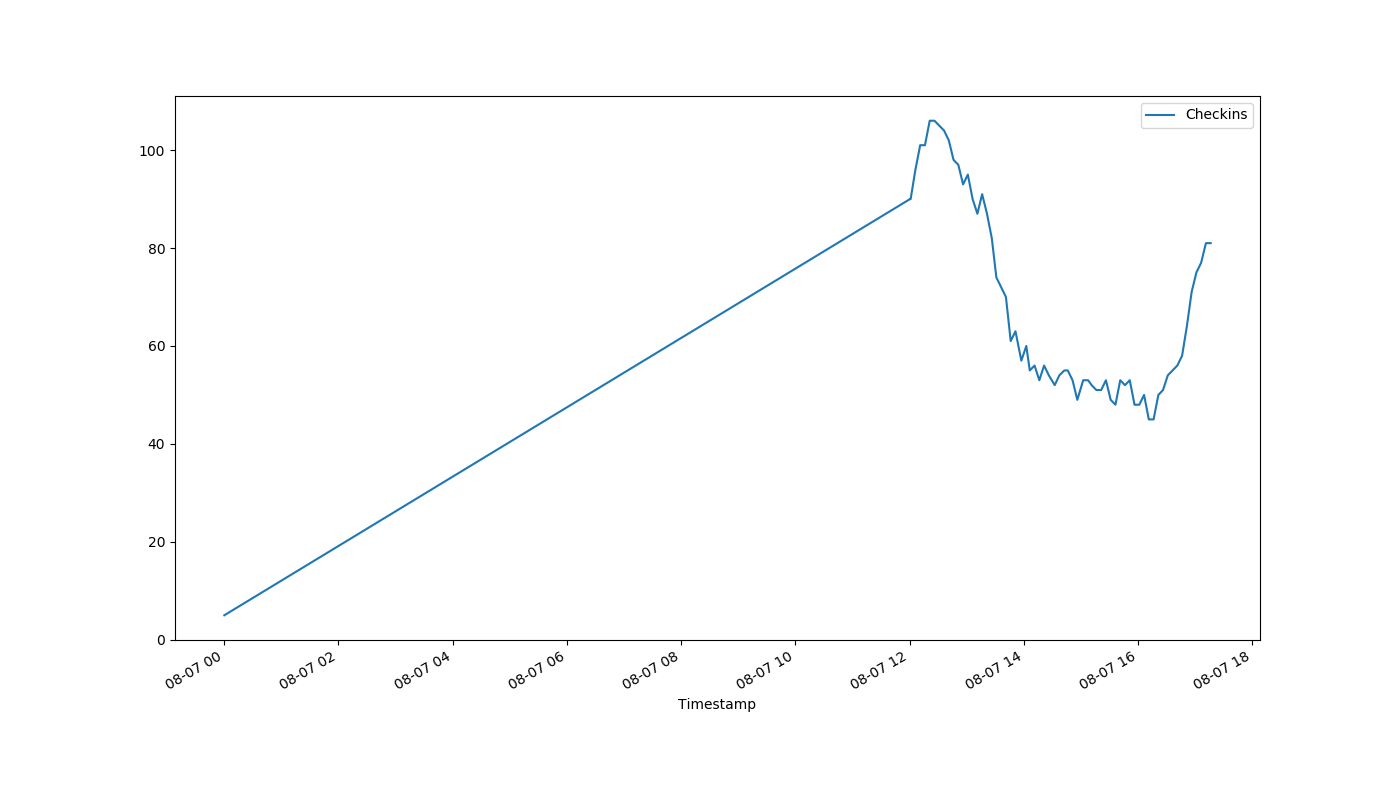
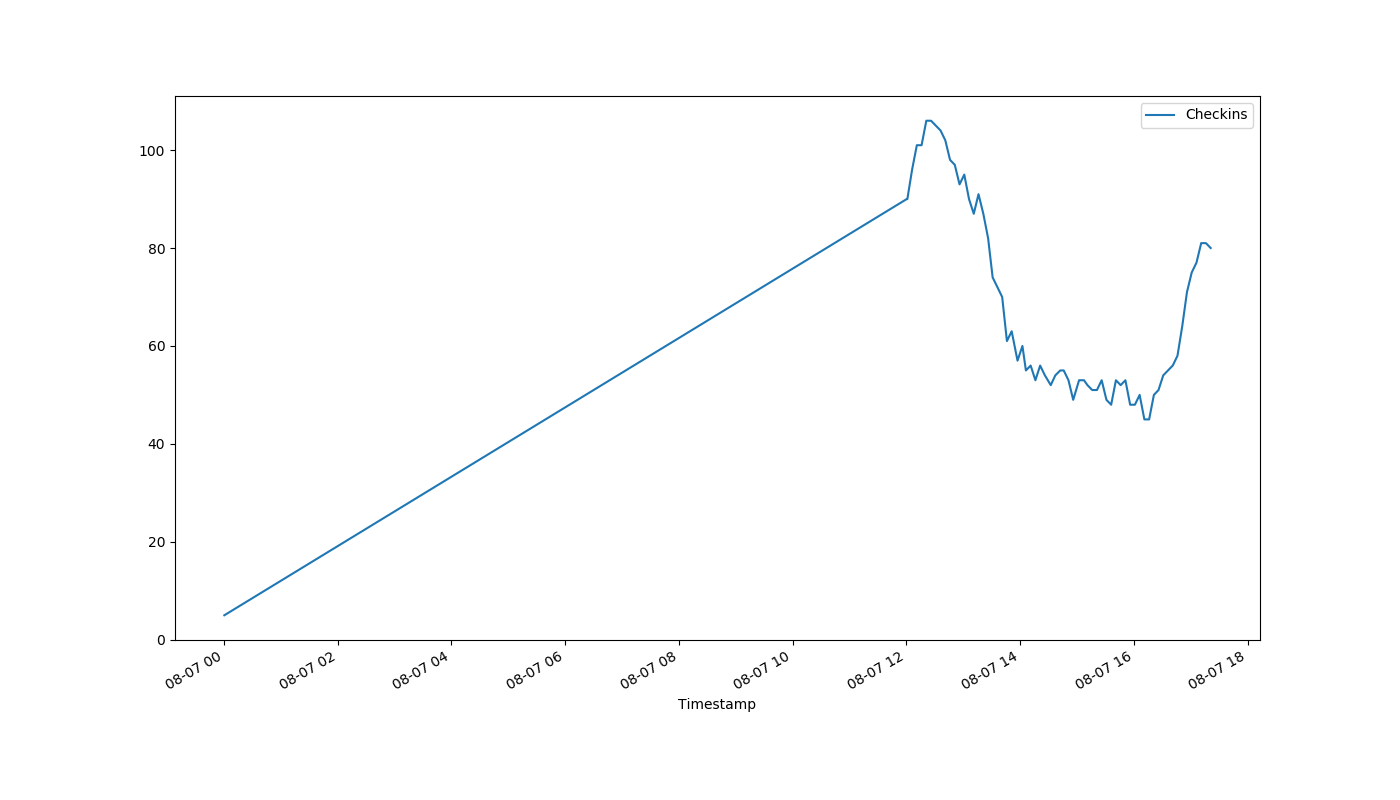
auto-Aug-07-17:23:04

diff --git a/index.html b/index.html
@@ -1,1 +1,1 @@
-<!DOCTYPE html><html><head><meta http-equiv="refresh" content="30"><link rel='stylesheet' href='holmcurrent.css'></head><body><p id='count'>81</p><div id='graph-wrap'><img id='graph' src='holmgraph-Aug-07.png'></div><p id='updated'>Last updated 17:17:01 / 17:16:06</p></body></html>
+<!DOCTYPE html><html><head><meta http-equiv="refresh" content="30"><link rel='stylesheet' href='holmcurrent.css'></head><body><p id='count'>80</p><div id='graph-wrap'><img id='graph' src='holmgraph-Aug-07.png'></div><p id='updated'>Last updated 17:22:02 / 17:21:06</p></body></html>
